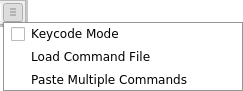
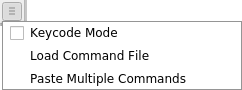
Updated cmdline dock / image captions

Changed region(s): [[0.0, 0.0, 1.0, 1.0], [0.1157, 0.8, 0.781, 0.9556], [0.1157, 0.5556, 0.6364, 0.6889]]

diff --git a/ref/widgets.rst b/ref/widgets.rst
@@ -115,7 +115,7 @@ Command Line Dock
     :scale: 67
     :alt: Command Line Dock
 
-    Command Line dock with drop-down menu
+    Command Line dock
 
 .. actual image size 260px x 340px
 
@@ -126,9 +126,9 @@ The *Command Line* is for users that want to draw by using keyboard commands. Co
     :scale: 67
     :alt: Command Line Dock
 
-    Command Line dock with drop-down menu
+    Command Line dock drop-down menu
 
-.. actual image size 260px x 340px
+.. actual image size 242px x 90px
 
 The dock includes a drop-down menu that offers additional functions:
 
